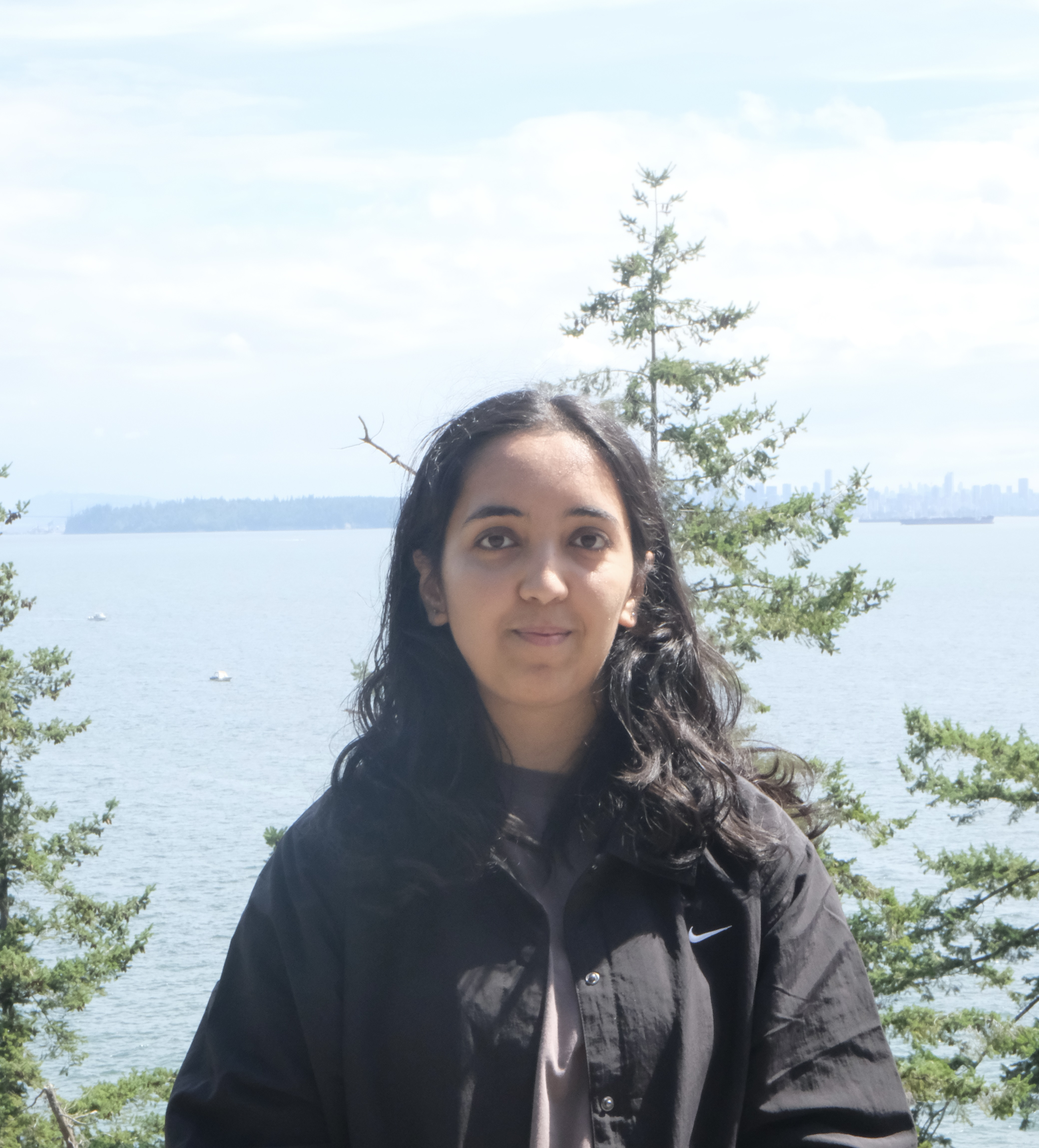
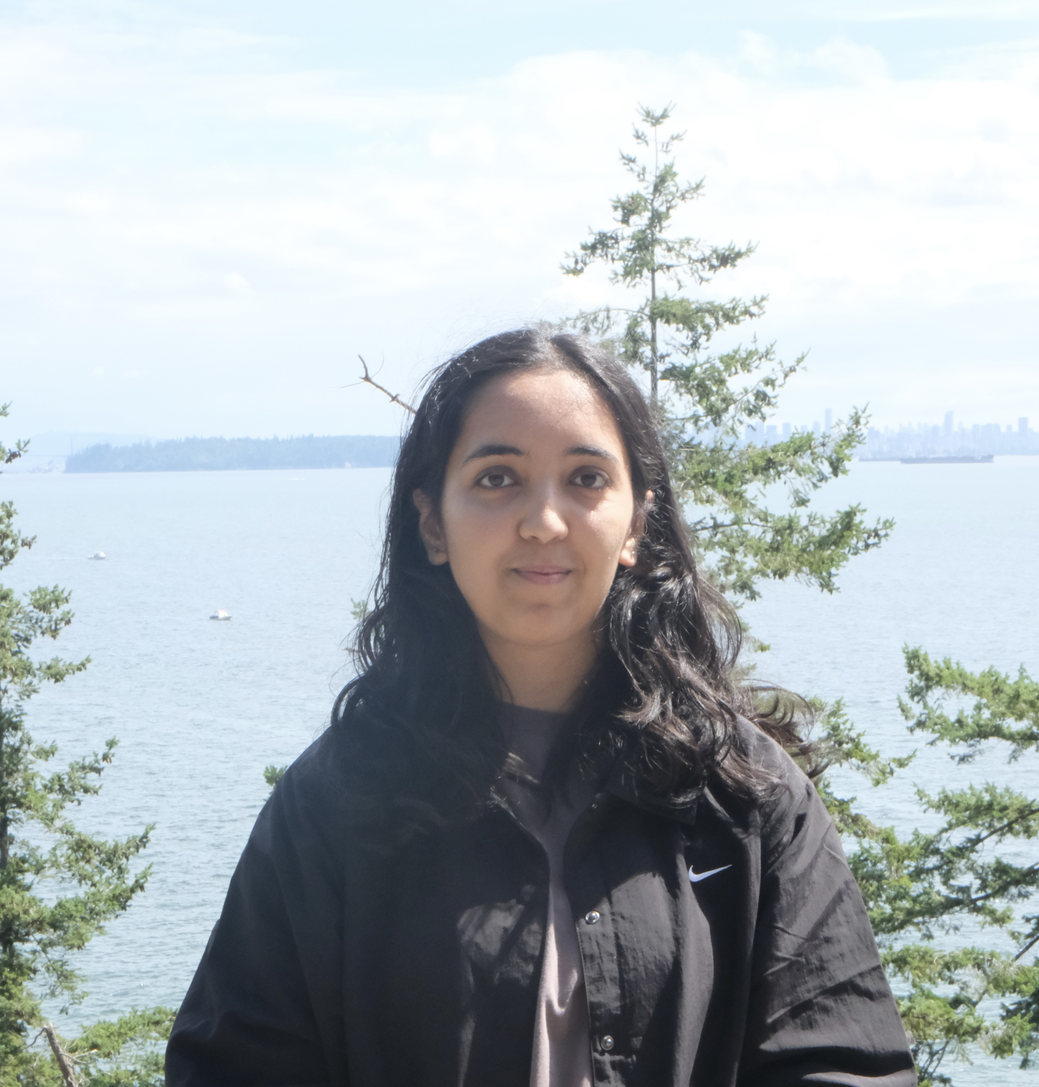
feat: add all organizer headshots and crop them

diff --git a/src/data/organizers.js b/src/data/organizers.js
@@ -11,7 +11,7 @@ import mariaK from "../assets/images/wics/organizers/maria_k.jpg";
 import meyer from "../assets/images/wics/organizers/meyer.jpg";
 import poorvi from "../assets/images/wics/organizers/poorvi.jpg";
 import sayna from "../assets/images/wics/organizers/sayna.jpeg";
-import selina from "../assets/images/wics/organizers/selina.jpeg";
+import selina from "../assets/images/wics/organizers/selina.jpg";
 import serena from "../assets/images/wics/organizers/serena.jpg";
 import sydney from "../assets/images/wics/organizers/sydney.jpeg";
 import vidhi from "../assets/images/wics/organizers/vidhi.jpeg";
